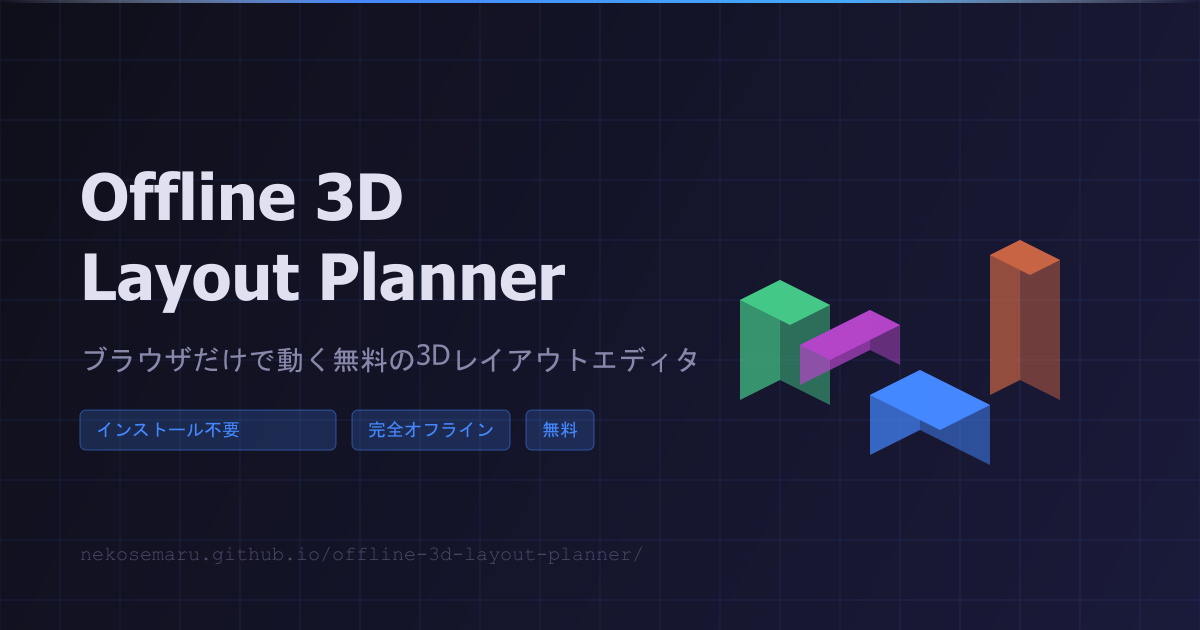
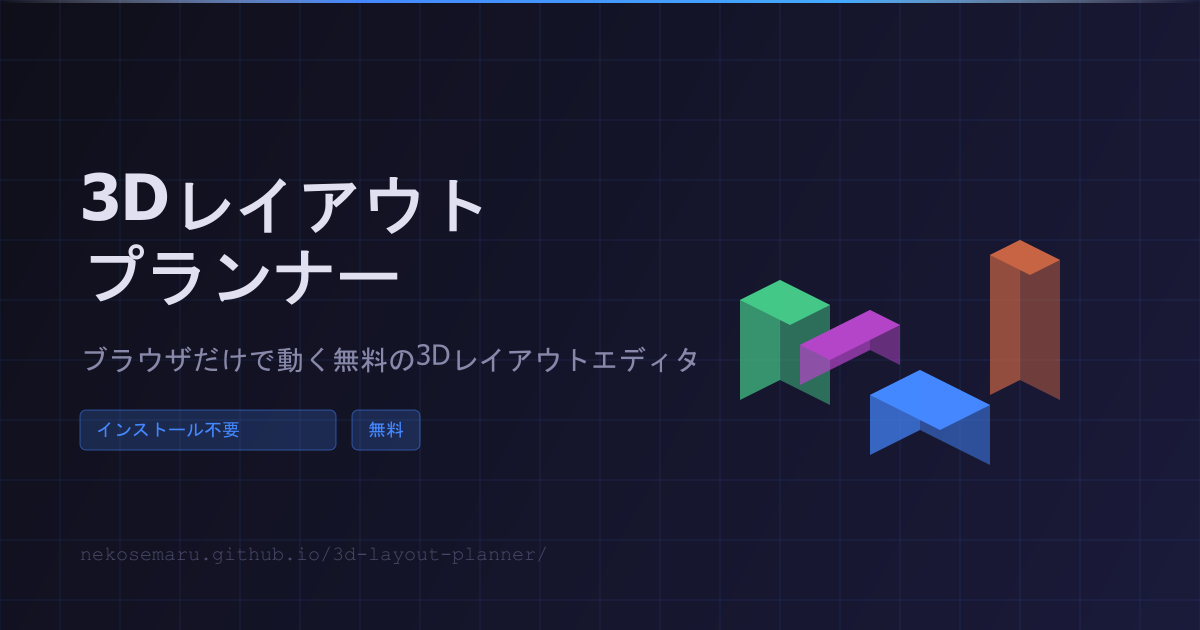
feat: 右下にGoogle AdSense広告枠を追加、オフライン訴求文言を削除
ドラッグ&ホイール拡縮機能に続き、画面右下に固定の広告枠（AdBanner）を新設。
AdSense導入に伴い、ネットワーク接続が前提となるため「完全オフライン対応」の
訴求をメタタグ・OGP画像から削除。OGP画像内の旧アプリ名・旧URLの残存も修正。

diff --git a/src/components/AdBanner.tsx b/src/components/AdBanner.tsx
@@ -1,0 +1,36 @@
+import { useEffect, useRef } from 'react';
+
+declare global {
+  interface Window {
+    adsbygoogle?: unknown[];
+  }
+}
+
+// TODO: AdSense審査通過後、実際の発行者IDと広告ユニットIDに置き換える
+const AD_CLIENT = 'ca-pub-XXXXXXXXXXXXXXXX';
+const AD_SLOT = 'XXXXXXXXXX';
+
+export const AdBanner: React.FC = () => {
+  const pushedRef = useRef(false);
+
+  useEffect(() => {
+    if (pushedRef.current) return;
+    pushedRef.current = true;
+    try {
+      (window.adsbygoogle = window.adsbygoogle || []).push({});
+    } catch (err) {
+      console.warn('AdSense広告の読み込みに失敗しました（広告ブロッカー等の可能性）', err);
+    }
+  }, []);
+
+  return (
+    <div className="ad-slot">
+      <ins
+        className="adsbygoogle"
+        style={{ display: 'inline-block', width: '250px', height: '100px' }}
+        data-ad-client={AD_CLIENT}
+        data-ad-slot={AD_SLOT}
+      />
+    </div>
+  );
+};

diff --git a/src/index.css b/src/index.css
@@ -484,6 +484,20 @@ select {
   color: var(--text-primary);
 }
 
+/* ─── 広告枠 ─── */
+.ad-slot {
+  position: absolute;
+  bottom: 12px;
+  right: 12px;
+  z-index: 10;
+  background: rgba(26, 26, 46, 0.85);
+  border: 1px solid var(--border);
+  border-radius: var(--radius-md);
+  padding: 4px;
+  backdrop-filter: blur(4px);
+  overflow: hidden;
+}
+
 /* ─── 仕切りヒントオーバーレイ ─── */
 .partition-hint {
   position: absolute;

diff --git a/index.html b/index.html
@@ -5,18 +5,20 @@
     <link rel="icon" type="image/svg+xml" href="/favicon.svg" />
     <meta name="viewport" content="width=device-width, initial-scale=1.0" />
     <title>3Dレイアウトプランナー — 無料のブラウザ3Dレイアウトエディタ</title>
-    <meta name="description" content="ブラウザだけで動く無料の3Dレイアウトプランナー。家具配置・展示ブース・撮影スタジオのレイアウトを3Dで直感的に設計できます。インストール不要・完全オフライン対応。">
-    <meta name="keywords" content="3Dレイアウト,インテリア,家具配置,間取り,展示ブース,撮影スタジオ,three.js,オフライン,無料">
+    <meta name="description" content="ブラウザだけで動く無料の3Dレイアウトプランナー。家具配置・展示ブース・撮影スタジオのレイアウトを3Dで直感的に設計できます。インストール不要。">
+    <meta name="keywords" content="3Dレイアウト,インテリア,家具配置,間取り,展示ブース,撮影スタジオ,three.js,無料">
     <meta property="og:title" content="3Dレイアウトプランナー — 無料のブラウザ3Dレイアウトエディタ">
-    <meta property="og:description" content="家具・ブース・スタジオのレイアウトを3Dで設計。インストール不要、完全無料、オフライン対応。">
+    <meta property="og:description" content="家具・ブース・スタジオのレイアウトを3Dで設計。インストール不要、完全無料。">
     <meta property="og:image" content="https://nekosemaru.github.io/3d-layout-planner/ogp.png">
     <meta property="og:url" content="https://nekosemaru.github.io/3d-layout-planner/">
     <meta property="og:type" content="website">
     <meta property="og:locale" content="ja_JP">
     <meta name="twitter:card" content="summary_large_image">
     <meta name="twitter:title" content="3Dレイアウトプランナー — 無料のブラウザ3Dレイアウトエディタ">
-    <meta name="twitter:description" content="ブラウザだけで動く無料の3Dレイアウトプランナー。インストール不要・完全オフライン。">
+    <meta name="twitter:description" content="ブラウザだけで動く無料の3Dレイアウトプランナー。インストール不要。">
     <meta name="twitter:image" content="https://nekosemaru.github.io/3d-layout-planner/ogp.png">
+    <!-- TODO: AdSense審査通過後、ca-pub-XXXXXXXXXXXXXXXX を実際の発行者IDに置き換える -->
+    <script async src="https://pagead2.googlesyndication.com/pagead/js/adsbygoogle.js?client=ca-pub-XXXXXXXXXXXXXXXX" crossorigin="anonymous"></script>
   </head>
   <body>
     <div id="root"></div>

diff --git a/src/components/LayoutCanvas.tsx b/src/components/LayoutCanvas.tsx
@@ -7,6 +7,7 @@ import type { ThreeEvent } from '@react-three/fiber';
 import type { LayoutObject as ILayoutObject } from '../types/layout';
 import { Room } from './Room';
 import { LayoutObject } from './LayoutObject';
+import { AdBanner } from './AdBanner';
 import { useLayoutStore } from '../store/layoutStore';
 
 // ── カメラプリセット ──────────────────────────────────────────────
@@ -327,6 +328,8 @@ export const LayoutCanvas: React.FC = () => {
         <color attach="background" args={['#1a1a2e']} />
         <Scene cameraPreset={preset} onPresetApplied={handlePresetApplied} />
       </Canvas>
+
+      <AdBanner />
     </div>
   );
 };